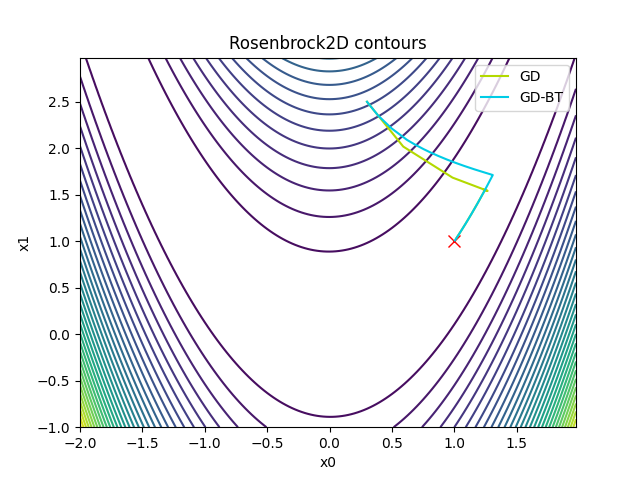
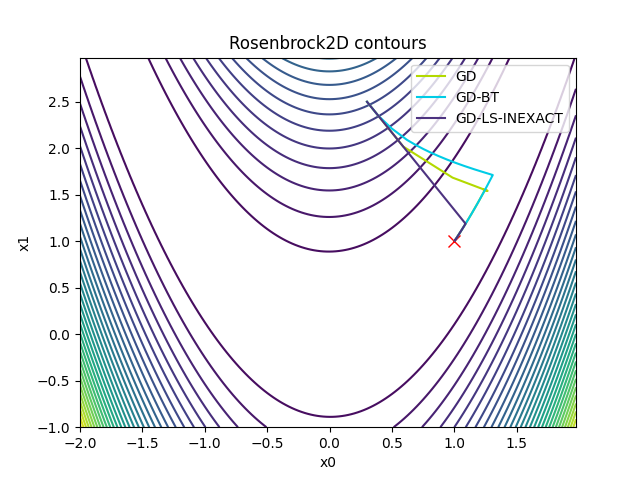
Add a2 inexact line search

diff --git a/a2/InExactLineSearch_GD.py b/a2/InExactLineSearch_GD.py
@@ -66,8 +66,16 @@ def gd(model, options, tol, maxiter, check):
     #   grad_k: dummy initialization of the gradient variable 
     #           - initialize as zero vector
     ### TODO: Initialize the variables as listed above. ###
-
-
+    def f(x):
+        return (a - x[0])**2 + b*(x[1] - x[0]**2)**2
+    
+    def fres(x):
+        return np.linalg.norm(x - np.array([a,a**2]))
+    
+    x_kp1 = options['init']
+    f_kp1 = f(x_kp1)
+    res0 = fres(x_kp1)
+    grad_k = np.zeros(N)
     # recording 
     if options['storeResidual'] == True:
         seq_res = zeros(maxiter+1)
@@ -100,7 +108,7 @@ def gd(model, options, tol, maxiter, check):
         ### - Estimate the expession of the gradient analytically, and compute the
         ### gradient here using this result.
         ###
-        
+        grad_k = np.array([-2*(a - x_k[0]) - 4*b*x_k[0] * (x_k[1] - x_k[0] ** 2), 2*b*(x_k[1] - x_k[0]**2)])
 
         # line search
         ### TODO: Write the code for Inexact Line Search here.
@@ -108,12 +116,14 @@ def gd(model, options, tol, maxiter, check):
         ### beginning of the file, for which scipy must be installed.
         ### In the minimize function you may use appropriate initialization for tau.
         ### For method parameter, use L-BFGS-B.
-        
+        fun = lambda t: (a - (x_k[0] - grad_k[0]*t))**2 + b*(x_k[1] - grad_k[1]*t - (x_k[0] - grad_k[0]*t)**2)**2
+        tau_k = minimize(fun, tau, method='L-BFGS-B').x[0]
+        x_kp1 = x_k - tau_k * grad_k
 
         # check breaking condition
         ### TODO: compute the current residual (distance to global minimizer)
 
-
+        res = fres(x_kp1)
         if res < tol:
             breakvalue = 2
 

diff --git a/a2/ex02_rosenbrock.py b/a2/ex02_rosenbrock.py
@@ -76,7 +76,7 @@ nams = []
 # HINT: Test each algorithm by setting to 1 then finally set all of them to 1
 run_gd                  = 1    # Gradient Descent
 run_gd_bt               = 1    # Gradient Descent with backtracking
-run_gd_inexact          = 0    # Gradient Descent with Inexact line search
+run_gd_inexact          = 1    # Gradient Descent with Inexact line search
 
 ################################################################################
 if run_gd: 
@@ -150,6 +150,7 @@ if run_gd_inexact:
 
     options = {
         'init':                 x0,
+        'stepsize':             1,
         'storeResidual':        True,
         'storePoints':          True,
         'storeTime':            True
